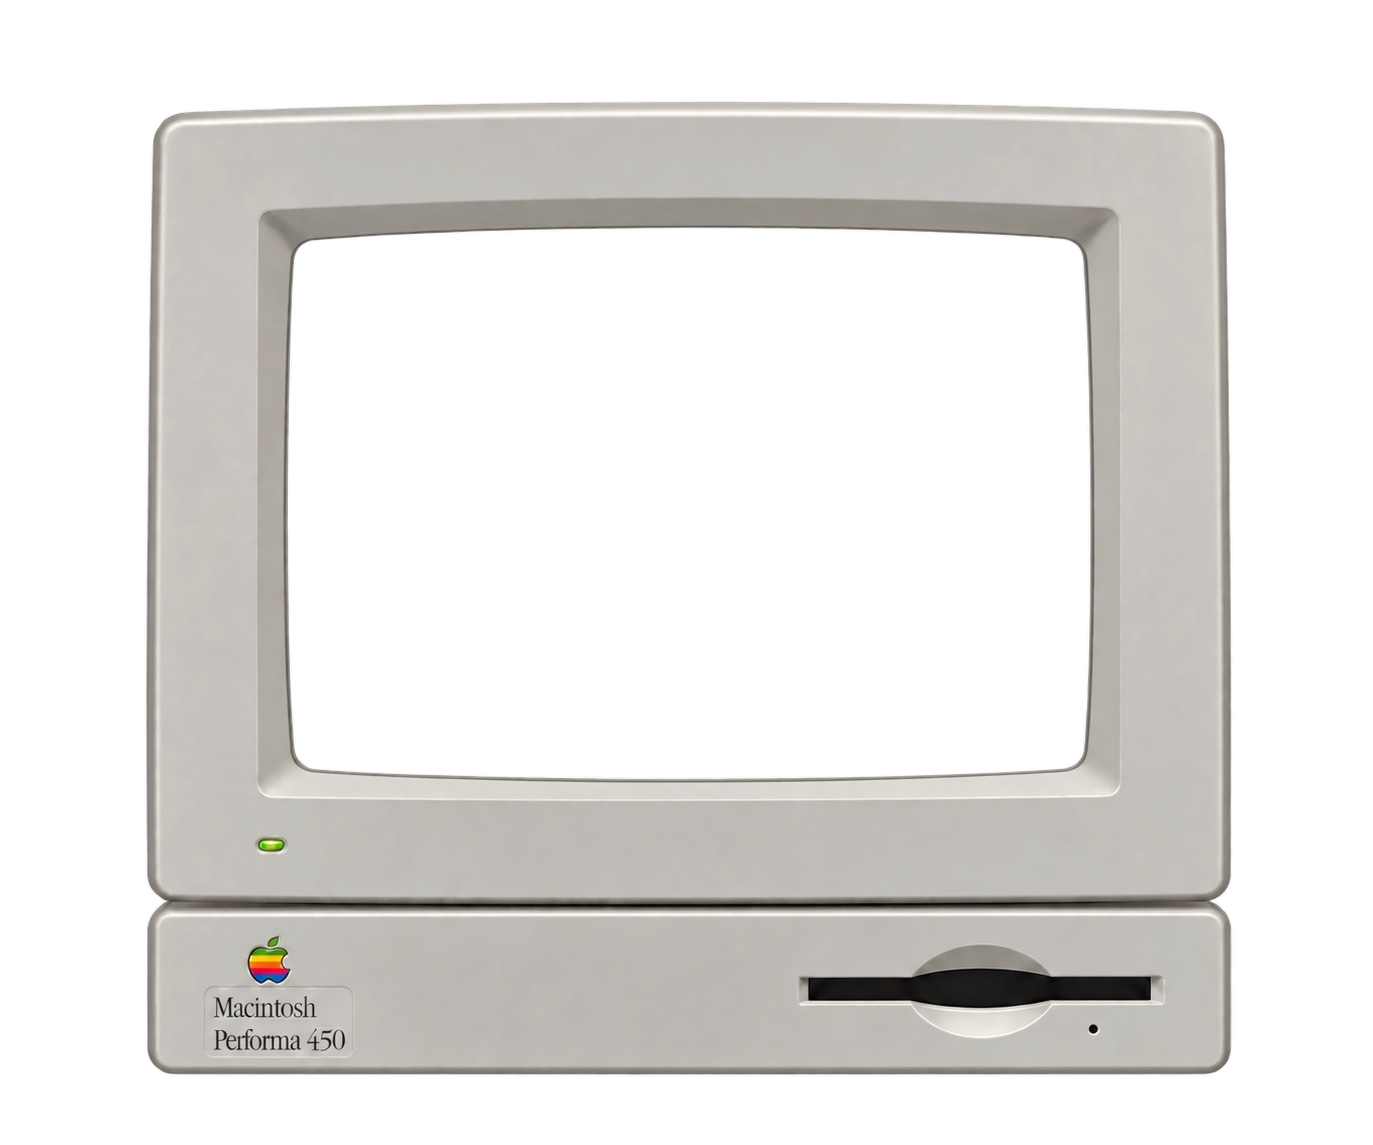
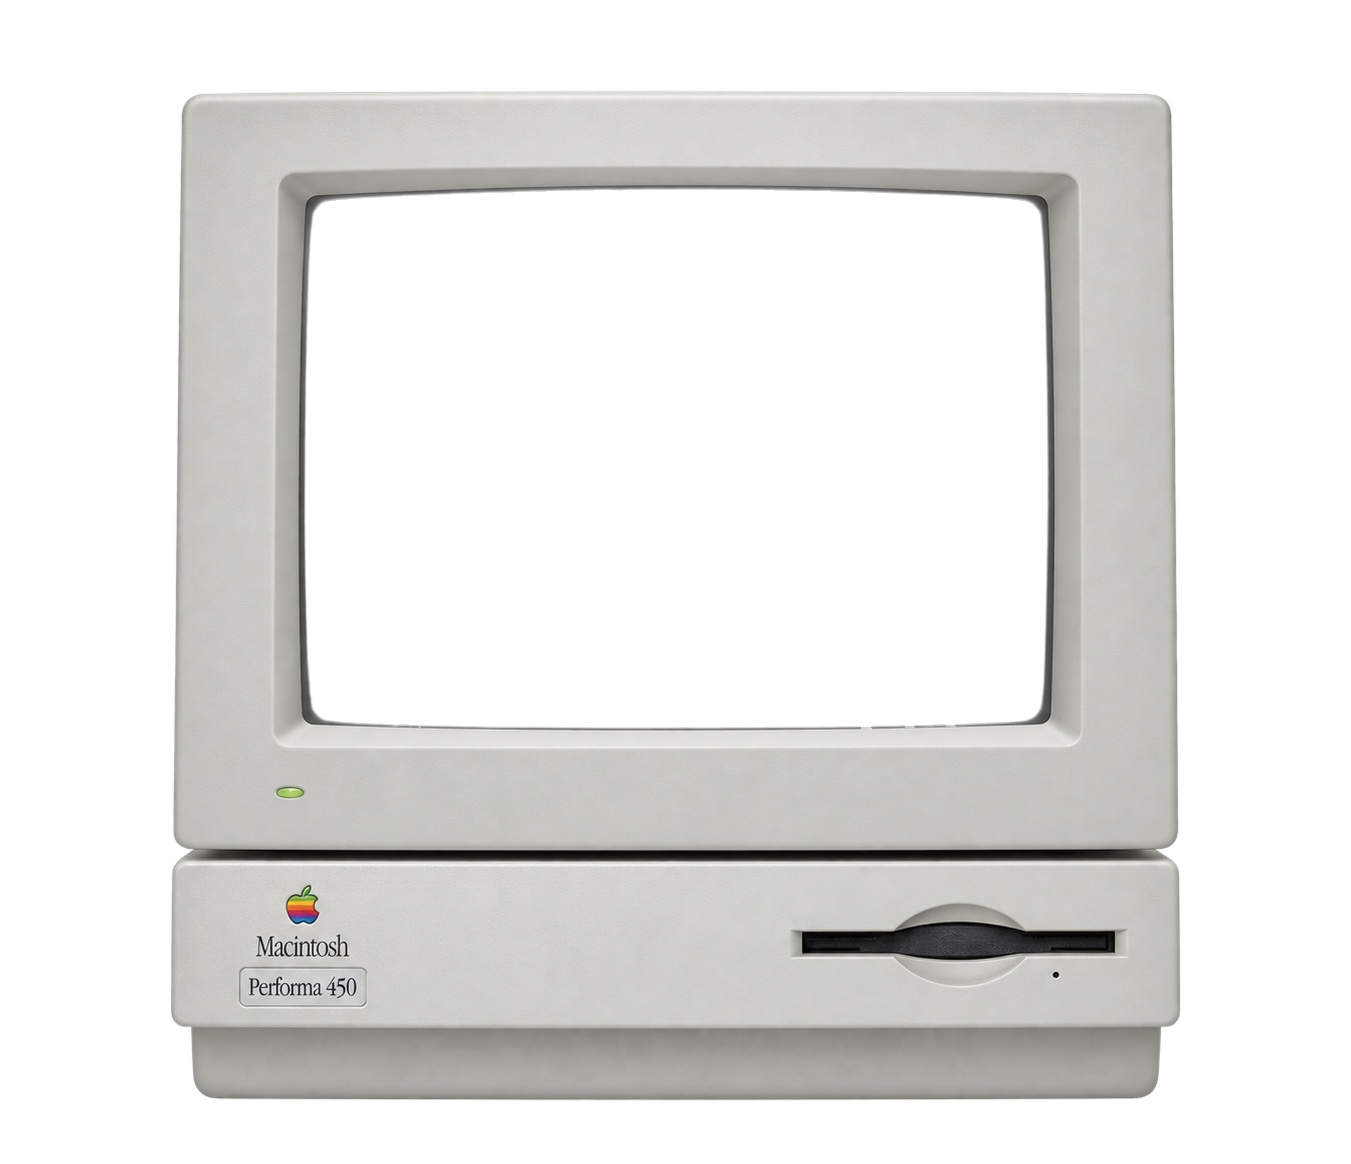
Swap Performa 450 art and add an angled variant (#170)
* Swap in another Performa 450 render

Replaces the Performa art with the render the user supplied. Keyed
like #168: white background and screen glass to alpha, rims unmixed
against the bezel, and the glass reflection kept as a white haze. The
glass mask also grows 2px into light JPEG ringing along the dark rim,
which otherwise left a pale 1px line around the tank.

The alpha-cropped art is 1013x1013, with the glass aperture at
(135,99) 745x541 and the 1.6 tank letterboxed inside at 745x466.

Claude-Session: https://claude.ai/code/session_012YUykh83gZ6csh6J2AHSZk

* Add an angled Performa 450 as a second variant

A three-quarter render of the Performa 450, added next to the frontal
one like the iMac G3 "II" variants. Keyed the same way: background and
glass to alpha, rims unmixed, glass mask grown 1px into light rim
ringing. The glass has no baked reflection, so it is fully clear.

The alpha-cropped art is 1132x1010, with the glass aperture at
(294,113) 688x538 and the 1.6 tank letterboxed inside at 688x430.

Claude-Session: https://claude.ai/code/session_012YUykh83gZ6csh6J2AHSZk

---------

Changed region(s): [[0.0933, 0.0611, 0.9016, 0.9476]]

diff --git a/web/machines.ts b/web/machines.ts
@@ -126,11 +126,22 @@ const plus: Machine = {
 const performa: Machine = {
   id: "performa", name: "Macintosh Performa 450",
   blurb: "A pizza-box desktop under an Apple RGB monitor.",
-  vbW: 1090, vbH: 977,
-  hole: { x: 144, y: 128, w: 802, h: 551, r: 0 },
-  sx: 144, sy: 153, sw: 802, sh: 501,
+  vbW: 1013, vbH: 1013,
+  hole: { x: 135, y: 99, w: 745, h: 541, r: 0 },
+  sx: 135, sy: 137, sw: 745, sh: 466,
   image: "assets/performa-450.png",
-  shape: [{ x: 0, y: 0, w: 1090, h: 977, r: 0 }],
+  shape: [{ x: 0, y: 0, w: 1013, h: 1013, r: 0 }],
+  svg: "",
+};
+
+const performa2: Machine = {
+  id: "performa-2", name: "Macintosh Performa 450 (II)",
+  blurb: "Another take on the pizza box — angled, vents showing.",
+  vbW: 1132, vbH: 1010,
+  hole: { x: 294, y: 113, w: 688, h: 538, r: 0 },
+  sx: 294, sy: 167, sw: 688, sh: 430,
+  image: "assets/performa-450-2.png",
+  shape: [{ x: 0, y: 0, w: 1132, h: 1010, r: 0 }],
   svg: "",
 };
 
@@ -253,7 +264,7 @@ const bare: Machine = {
 };
 
 export const MACHINES: readonly Machine[] =
-  [plus, performa, tam, bondi, bondi2, strawberry, strawberry2,
+  [plus, performa, performa2, tam, bondi, bondi2, strawberry, strawberry2,
    flowerPower, flowerPower2, powerbookG3, ibook, imacg4, bare];
 export const DEFAULT_MACHINE = "plus";
 export function machineById(id: string): Machine | undefined {
